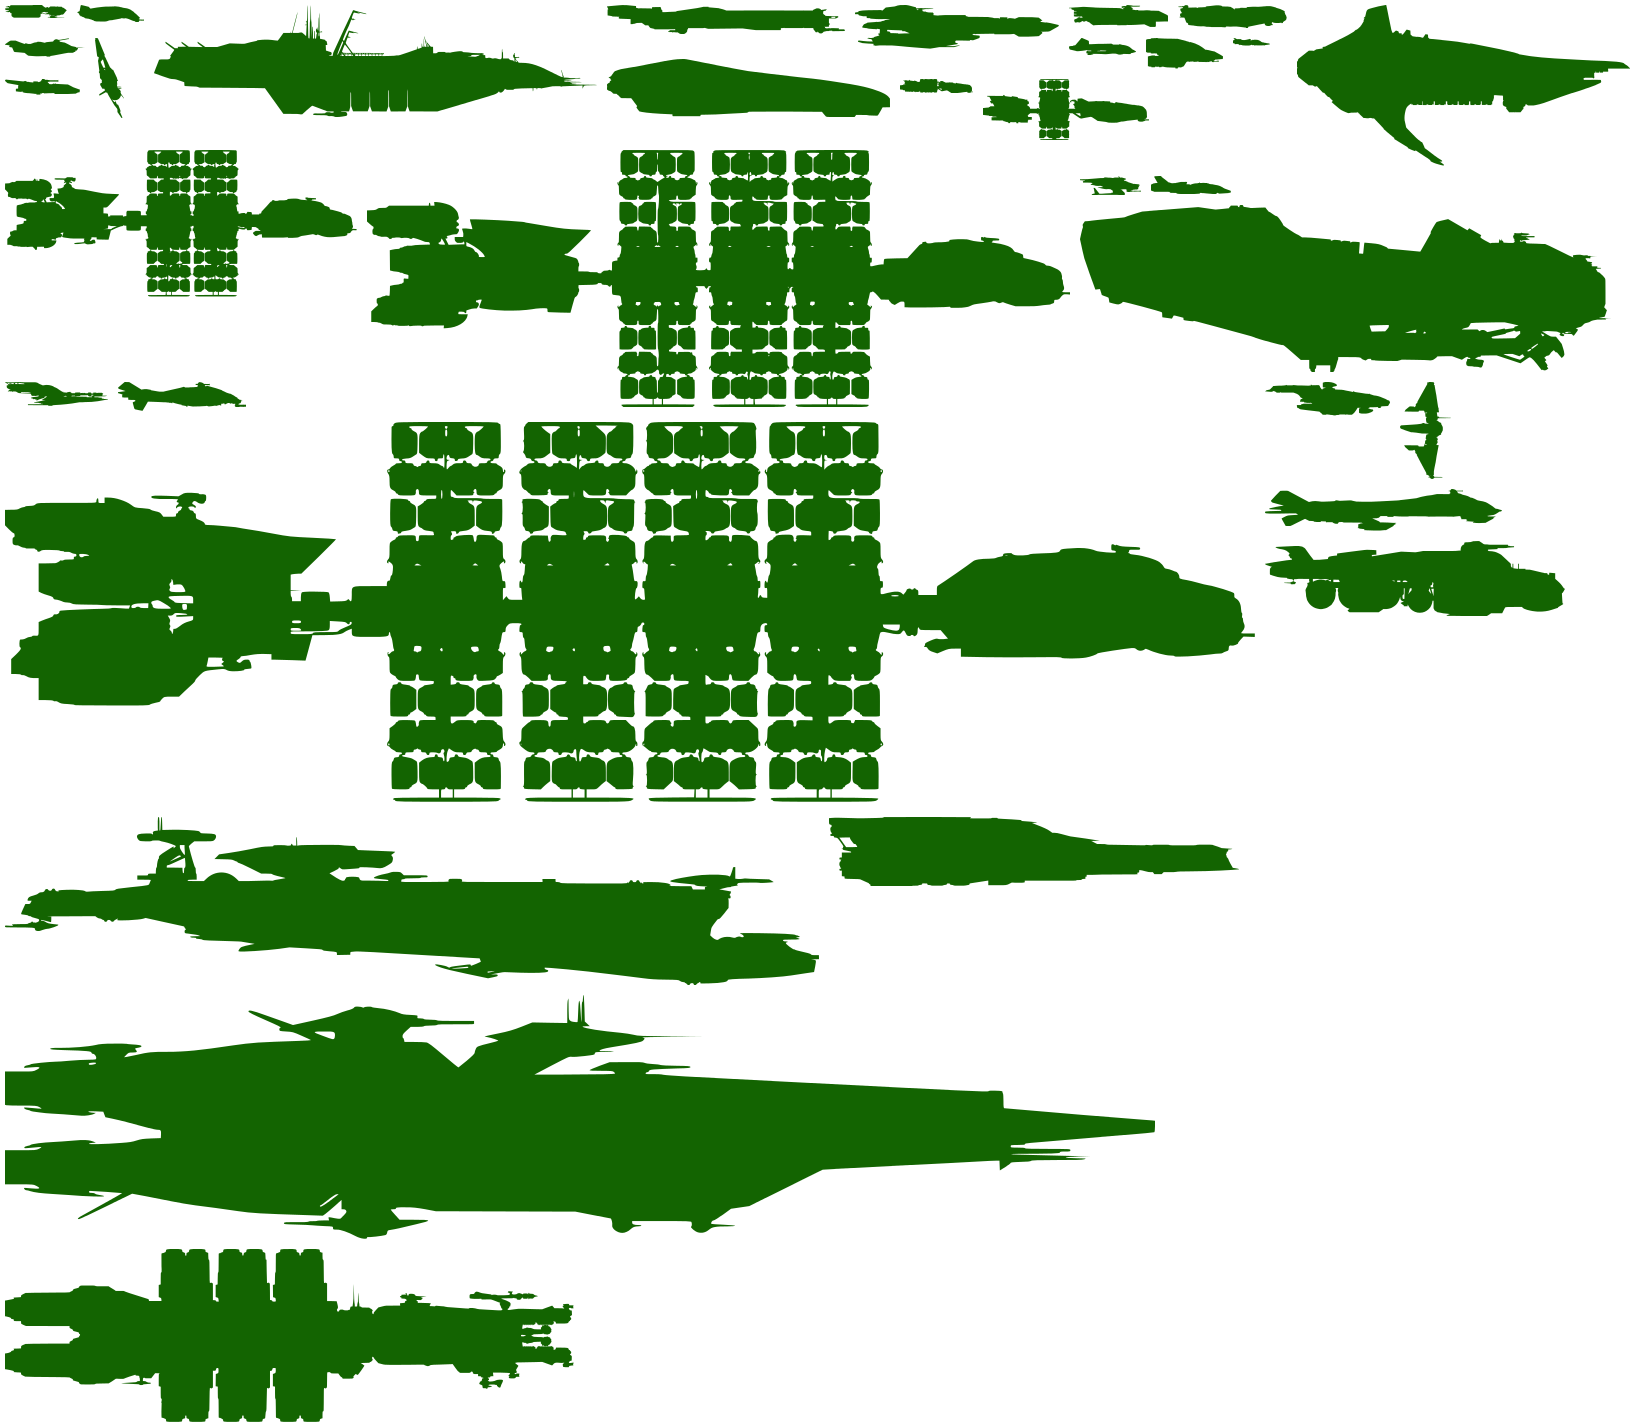
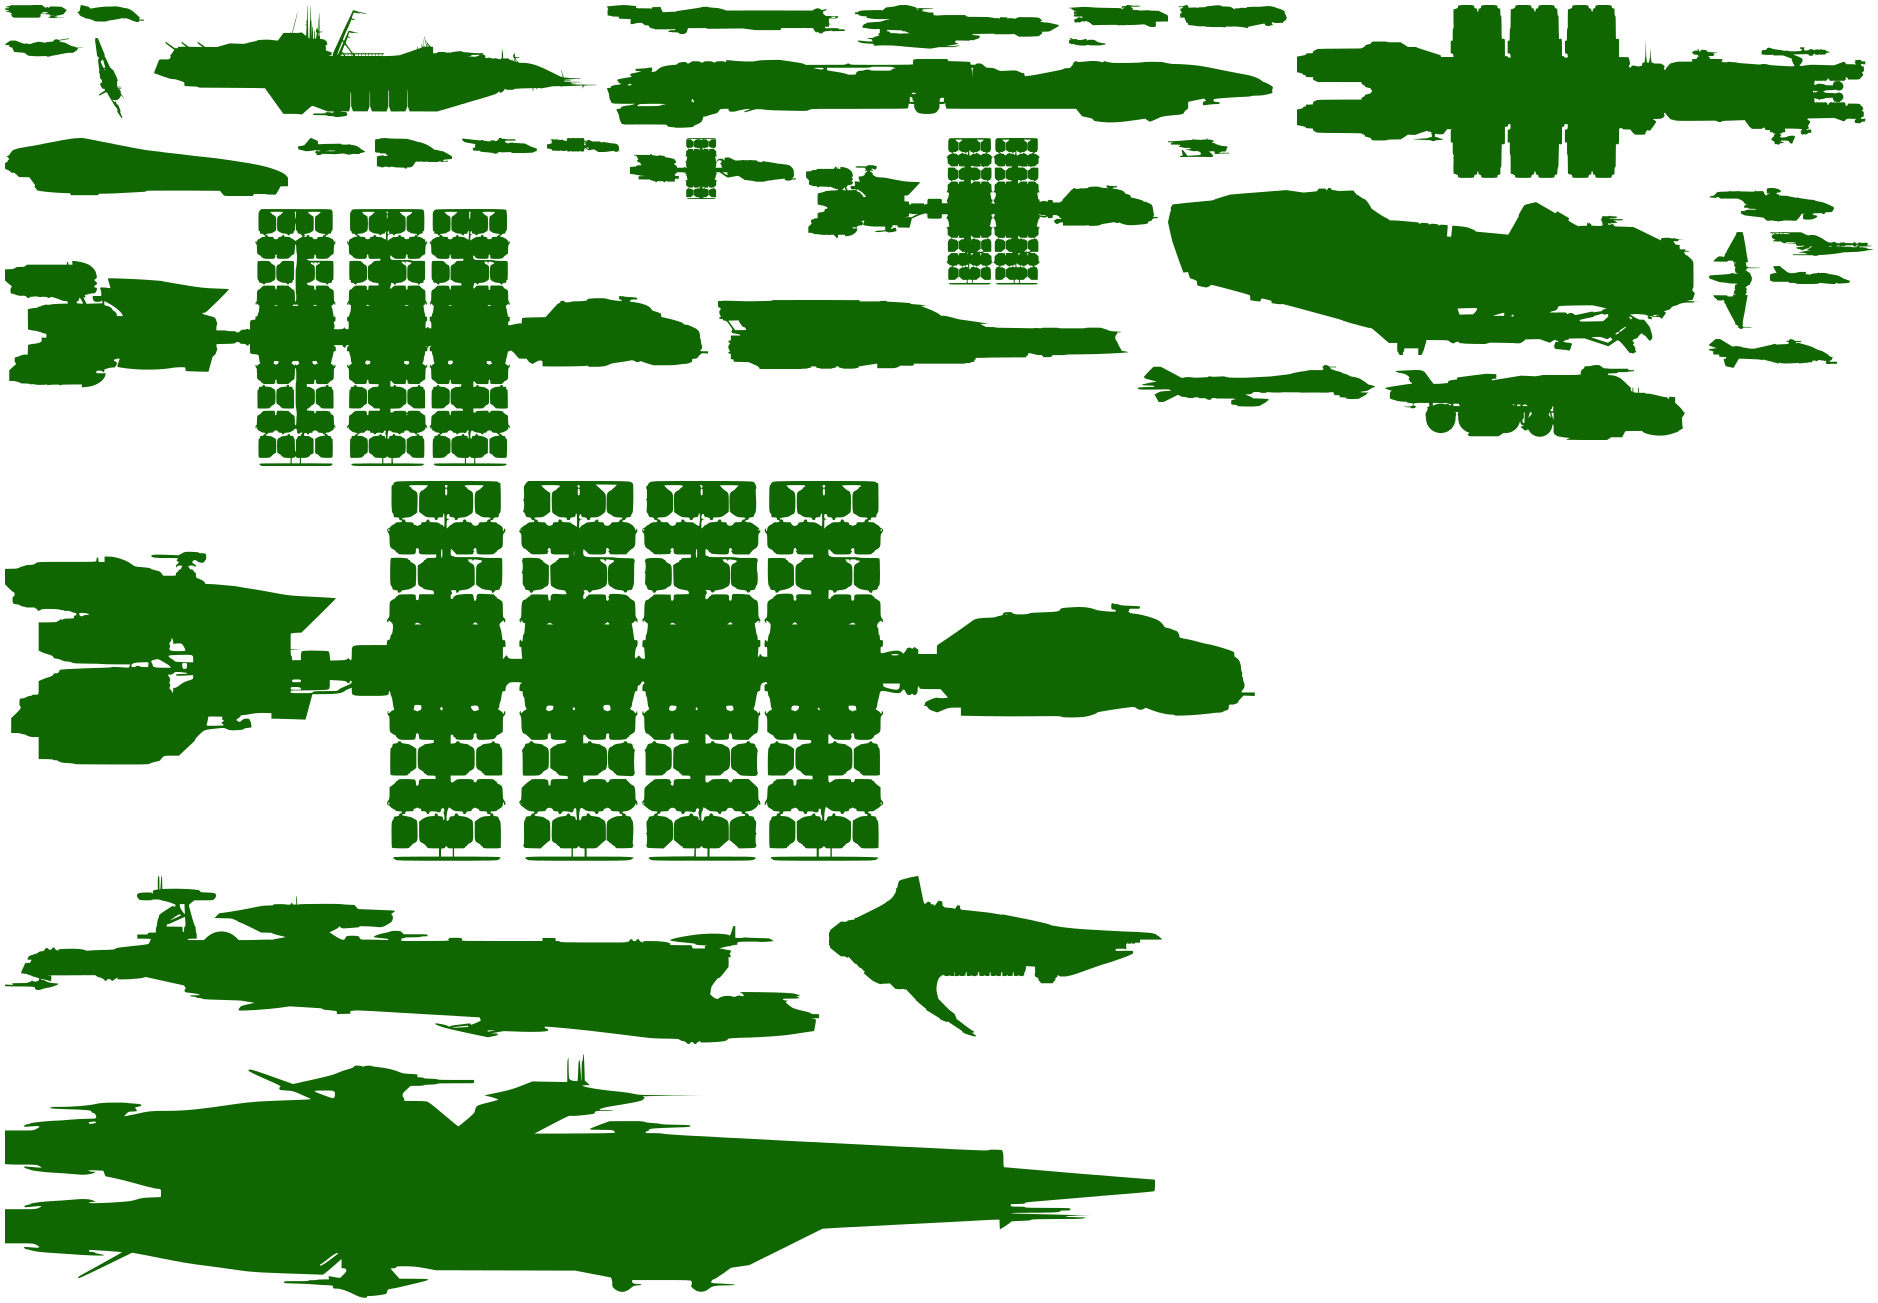
Added MISC Endeavor

diff --git a/content/styles/Ships.css b/content/styles/Ships.css
@@ -43,6 +43,12 @@
     background-position: -1069px -5px;
 }
 
+.Endeavor {
+    width: 666px;
+    height: 69px;
+    background-position: -607px -59px;
+}
+
 .Freelancer {
     width: 109px;
     height: 23px;
@@ -52,7 +58,7 @@
 .Genesis {
     width: 283px;
     height: 58px;
-    background-position: -607px -59px;
+    background-position: -5px -138px;
 }
 
 .Gladiator {
@@ -64,67 +70,67 @@
 .Gladius {
     width: 67px;
     height: 17px;
-    background-position: -1069px -38px;
+    background-position: -298px -138px;
 }
 
 .Herald {
     width: 77px;
     height: 31px;
-    background-position: -1146px -38px;
+    background-position: -375px -138px;
 }
 
 .Hornet {
     width: 75px;
     height: 16px;
-    background-position: -5px -79px;
+    background-position: -462px -138px;
 }
 
 .Hull-A {
     width: 73px;
     height: 14px;
-    background-position: -900px -79px;
+    background-position: -547px -138px;
 }
 
 .Hull-B {
     width: 166px;
     height: 61px;
-    background-position: -983px -79px;
+    background-position: -630px -138px;
 }
 
 .Hull-C {
     width: 352px;
     height: 152px;
-    background-position: -5px -150px;
+    background-position: -806px -138px;
 }
 
 .Hull-D {
     width: 703px;
     height: 262px;
-    background-position: -367px -150px;
+    background-position: -5px -209px;
 }
 
 .Hull-E {
     width: 1250px;
     height: 385px;
-    background-position: -5px -422px;
+    background-position: -5px -481px;
 }
 
 .Idris {
     width: 814px;
     height: 168px;
-    background-position: -5px -817px;
+    background-position: -5px -876px;
 }
 
 .Javelin {
     width: 1150px;
     height: 244px;
-    background-position: -5px -995px;
+    background-position: -5px -1054px;
 }
 
 .Jump {
     width: 410px;
     height: 69px;
-    background-position: -829px -817px;
+    background-position: -718px -300px;
 }
 
 .Khartu {
@@ -136,71 +142,71 @@
 .M50 {
     width: 37px;
     height: 8px;
-    background-position: -1233px -38px;
+    background-position: -1069px -38px;
 }
 
 .Merchantman {
     width: 333px;
     height: 161px;
-    background-position: -1297px -5px;
+    background-position: -829px -876px;
 }
 
 .Mustang {
     width: 61px;
     height: 19px;
-    background-position: -1080px -176px;
+    background-position: -1168px -138px;
 }
 
 .Orion {
     width: 569px;
     height: 173px;
-    background-position: -5px -1249px;
+    background-position: -1297px -5px;
 }
 
 .Reclaimer {
     width: 531px;
     height: 167px;
-    background-position: -1080px -205px;
+    background-position: -1168px -188px;
 }
 
 .Redeemer {
     width: 125px;
     height: 34px;
-    background-position: -1265px -382px;
+    background-position: -1709px -188px;
 }
 
 .Reliant {
     width: 51px;
     height: 97px;
-    background-position: -1400px -382px;
+    background-position: -1709px -232px;
 }
 
 .Retaliator {
     width: 237px;
     height: 42px;
-    background-position: -1265px -489px;
+    background-position: -1138px -365px;
 }
 
 .Scythe {
     width: 103px;
     height: 24px;
-    background-position: -5px -382px;
+    background-position: -1770px -232px;
 }
 
 .Starfarer {
     width: 300px;
     height: 75px;
-    background-position: -1265px -541px;
+    background-position: -1385px -365px;
 }
 
 .Vanguard {
     width: 128px;
     height: 29px;
-    background-position: -118px -382px;
+    background-position: -1709px -339px;
 }
 
 .s300i {
     width: 80px;
     height: 18px;
-    background-position: -1151px -176px;
+    background-position: -1770px -266px;
 }

diff --git a/index.html b/index.html
@@ -88,6 +88,8 @@
             <dd><input type="number" id="MerchantmanShipNumber" data-shipname="Merchantman" data-shipclassname="Merchantman" /></dd>
             <dt>Carrack</td>
             <dd><input type="number" id="CarrackShipNumber" data-shipName="Carrack" data-shipClassName="Carrack"/></dd>
+            <dt>Endeavor</dt>
+            <dd><input type="number" id="EndeavorShipNumber" data-shipname="Endeavor" data-shipclassname="Endeavor" /></dd>
             <dt>Reclaimer</dt>
             <dd><input type="number" id="ReclaimerShipNumber" data-shipname="Reclaimer" data-shipclassname="Reclaimer" /></dd>
             <dt>Orion</td>
